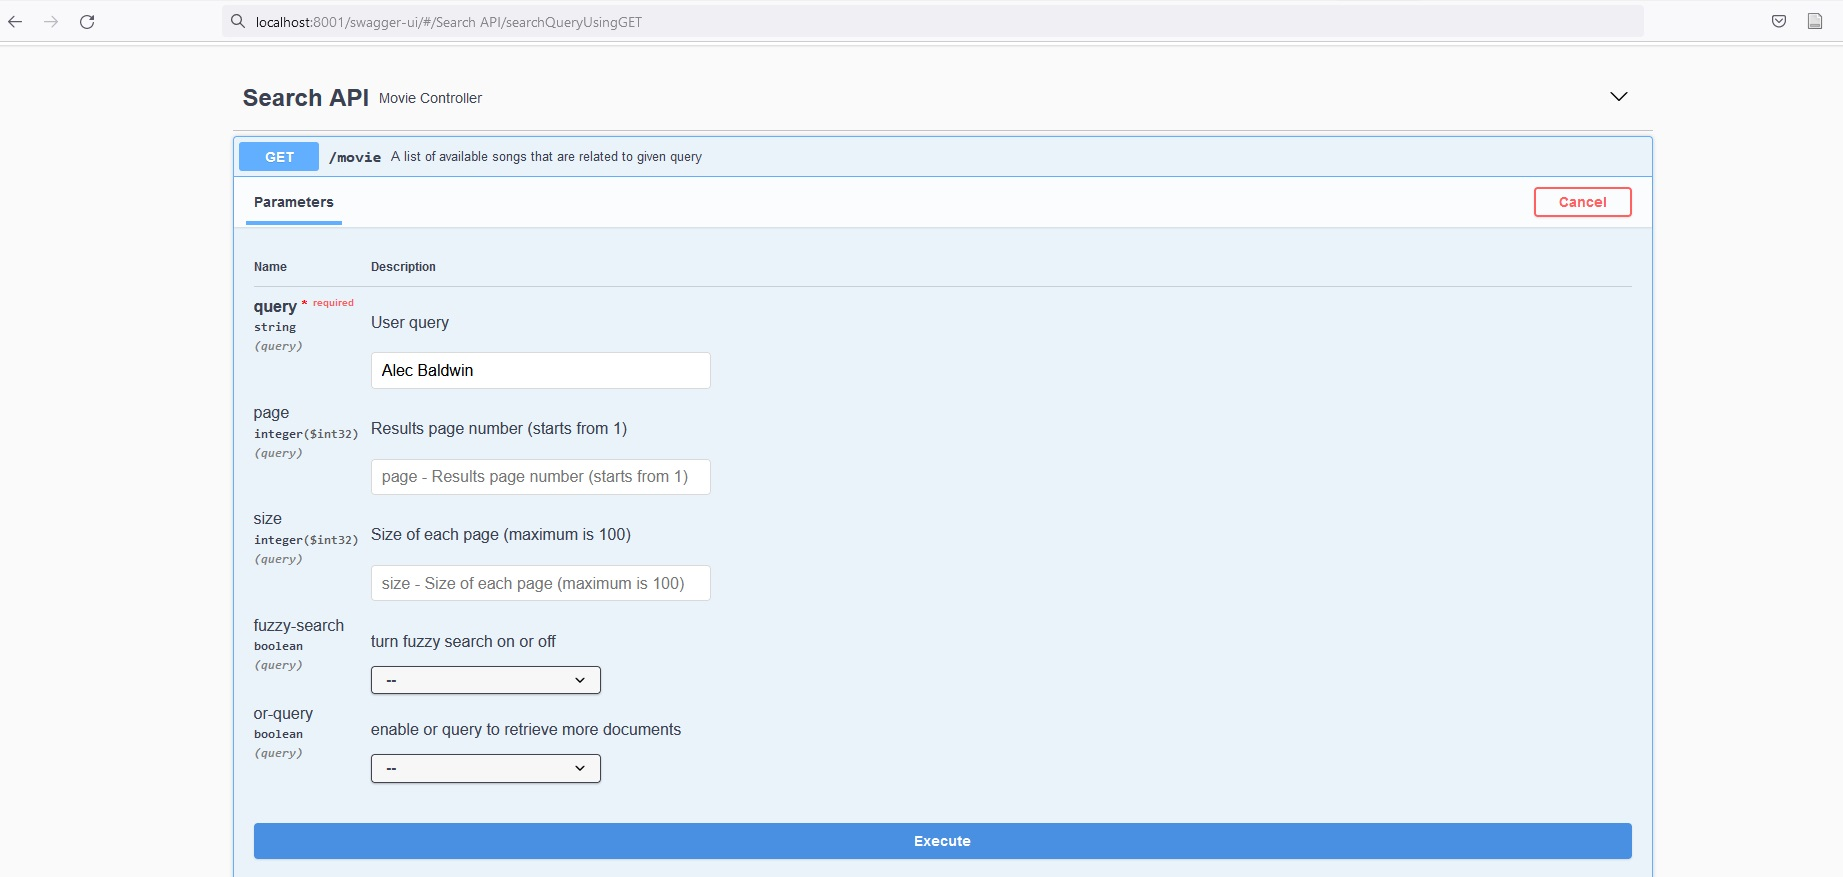
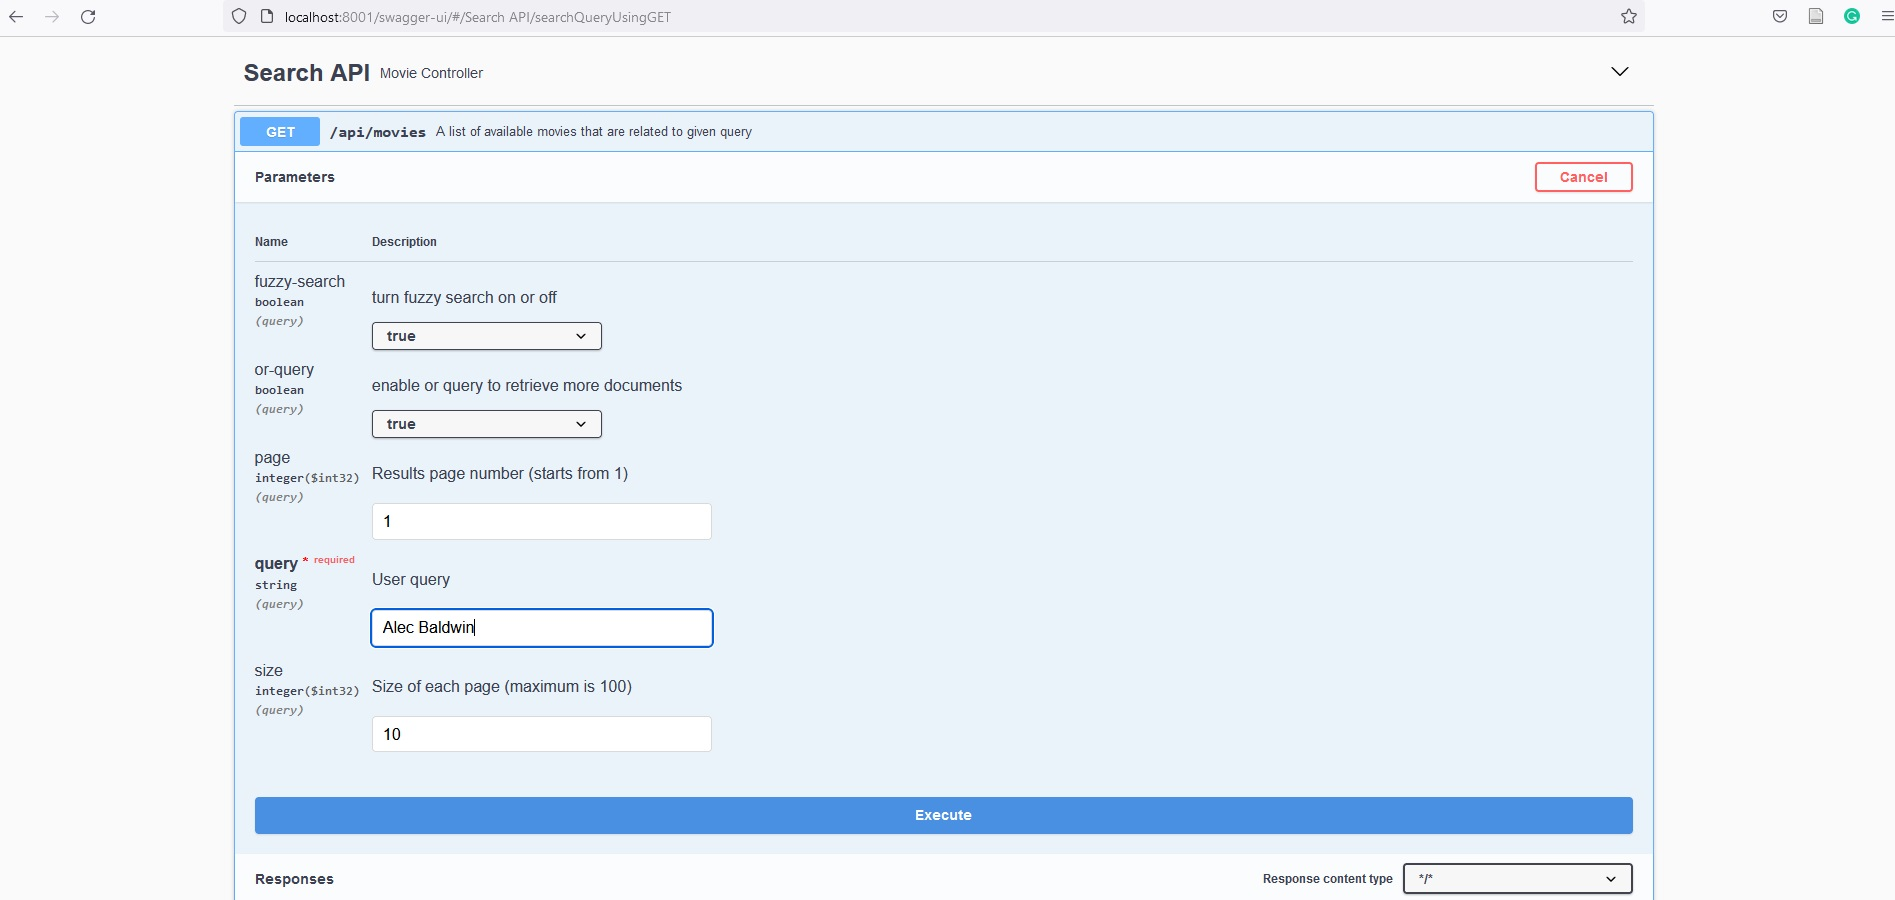
Readme file updated.

Changed region(s): [[0.0, 0.0, 1.0, 1.0]]

diff --git a/ingestion-api-service/src/main/java/de/kaufland/moviesearch/ingestionapiservice/controller/MoviesController.java b/ingestion-api-service/src/main/java/de/kaufland/moviesearch/ingestionapiservice/controller/MoviesController.java
@@ -27,7 +27,6 @@ public class MoviesController {
     @RequestMapping(value = "/upload", consumes = {MediaType.MULTIPART_FORM_DATA_VALUE}, method = RequestMethod.POST)
     public void uploadFile(@RequestPart MultipartFile file) throws FileIsNotParsableException, InvalidIdException, InternalServerErrorException {
         storeMoviesService.store(file);
-//        return new ResponseEntity<>(HttpStatus.OK);
     }
 
     @ApiOperation(value = "uploads json data")

diff --git a/README.md b/README.md
@@ -26,7 +26,7 @@ connect my services and **Elasticsearch** as the search engine. you can see the 
 
 ![Alt text](images/architecture.jpg?raw=true "Figure 1: Architecture")
 
-services details are:
+Services details are:
 
 1. **ingestion-api-service:** This service receives movies data using a restfull api and put the data to **RabbitMQ**.
 
@@ -40,41 +40,41 @@ Compose, Maven, Intellij IDE
 
 ## Build and Run
 
-I used maven to manage dependencies and build the project, and designed docker files and docker compose to build and run
+I used Maven to manage dependencies and build the project, and designed docker files and docker compose to build and run
 the project easily. So you must have maven, docker and docker compose installed in your system and follow this steps to
 run the project:
 
-**1.get the project from git:** you can get the project from GitHub using `clone` command.
+**1. Get the project from git:** You can get the project from GitHub using `clone` command.
 
 ```
 git clone https://github.com/Ali-Zare71/movies-search-engine.git
 ```
 
-**2.build all services:** you can build all services by running `mvn package` command in the root folder of project.
+**2. Build all services:** You can build all services by running `mvn package` command in the root folder of project.
 
 ```
 cd movie-search-engine
 mvn package
 ```
 
-**3.run the project:** After building the project, you can easily build docker images of services and run all of the
-services using **docker-compose**
+**3. Run the project:** After building the project, you can easily build docker images of services and run them and
+their dependencies (like Elasticsearch and RabbitMQ) using **docker-compose**.
 
 ```
 docker-compose up
 ```
 
-Docker will download all of needed images (in the first run) and run the project so this phase may take a while and you
-have to wail until all of the services are up.
+Docker will download all of needed images (in the first run) and run the project so this phase may take a while, and you
+have to wait until all the services are up.
 
 ## How to use?
 
 To use the project you have to insert the data with the standard format to the system and try to retrieve related movies
-regarding given queries. I have designed tow restfull apis to achieve this. one endpoint for data entry and the other
+regarding given queries. I have designed two restfull apis to achieve this. one endpoint for data entry and the other
 one to fetch data:
 
 **1. Data entry:**
-You can import data to the project using the movie endpoint implemented in ingestion-api-service which is easily
+You can import data to the project using the movies endpoint implemented in ingestion-api-service which is easily
 accessible from swagger ui with this address:
 
 http://localhost:8000/swagger-ui/
@@ -82,30 +82,33 @@ http://localhost:8000/swagger-ui/
 In this endpoint you can upload a file or directly send the json data by post requests.
 
 upload a json file:
-http://localhost:8000/movies/upload
+http://localhost:8000/api/movies/upload
 
 upload json text:
-http://localhost:8000/movies/
+http://localhost:8000/api/movies/
 
-here are the screenshots of how to use swagger:
+Here are the screenshots of how to use swagger:
 ![Alt text](images/enrty-endpoint.jpg?raw=true "Figure 2: Entry endpoint")
 
-upload file:
+Upload file:
+
 ![Alt text](images/upload-file.jpg?raw=true "Figure 3: Upload file")
 
-upload json text:
+Upload json text:
 
 ![Alt text](images/json-input.jpg?raw=true "Figure 4: Json input")
 
 **2. Fetch data:**
-You can fetch the data regarding a given query using the movie endpoint implemented in search-service which is easily
+You can fetch the data regarding a given query using the movies endpoint implemented in search-service which is easily
 accessible from swagger ui with this address:
 
 http://localhost:8001/swagger-ui/
 
 Endpoint address:
+http://localhost:8001/api/movies
 
-http://localhost:8001/movie?query=Alec%20Baldwin
+Example:
+http://localhost:8001/api/movies?query=Alec%20Baldwin&page=1&size=10&fuzzy-search=true&or-query=true
 
 here is the screenshot of fetch movies endpoint:
 
@@ -120,3 +123,11 @@ this endpoint gets some parameters:
 | size  | results number in each page (default: 10)   |
 | fuzzy-search  | enables fuzzy search to retrieve more results (default: true)   |
 | or-query  | enables or query search to retrieve more results (default: true)   |
+
+## Todo
+
+This items can be done in next versions:
+
+* Add security to apis
+* Use more fields and futures in ranking phase
+* test ranking results using a dataset and tune the parameters
